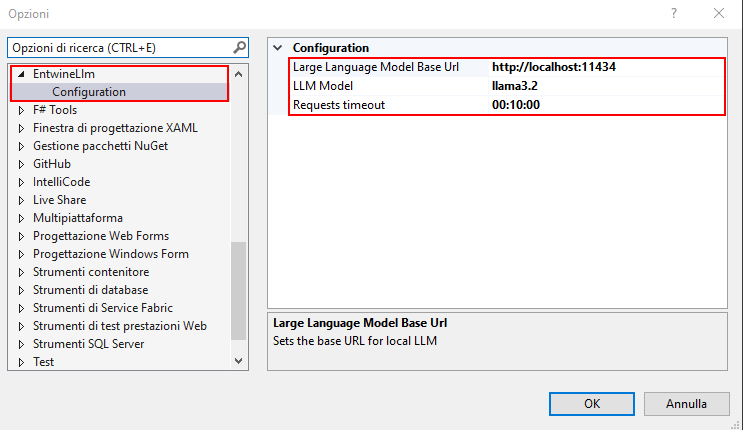
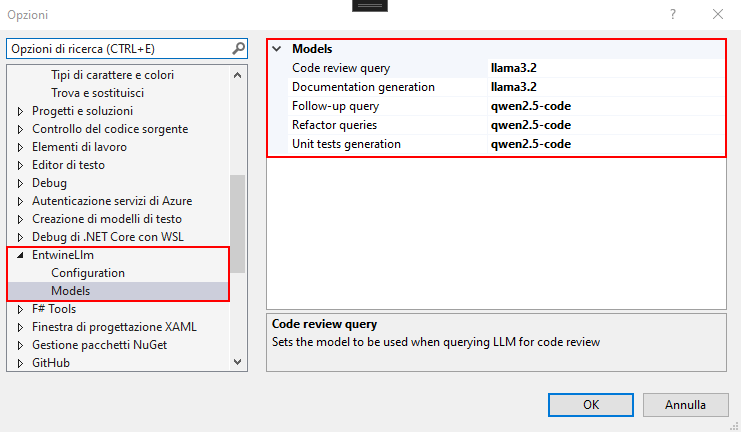
Implemented specific LLMs (#5)
* Added specific model configuration for each operation; bugfix for manual requests
* Minor refactoring
* Minor refactor; updated documentation and version

Changed region(s): [[0.0, 0.0, 1.0, 1.0], [0.4656, 0.0, 0.5277, 0.0302]]

diff --git a/src/EntwineLLM/Helpers/RefactoringHelper.cs b/src/EntwineLLM/Helpers/RefactoringHelper.cs
@@ -14,13 +14,15 @@ namespace EntwineLlm
 {
     internal class RefactoringHelper
     {
-        private readonly EntwineLlmOptions _options;
+        private readonly GeneralOptions _generalOptions;
+        private readonly ModelsOptions _modelsOptions;
         private readonly AsyncPackage _package;
 
         public RefactoringHelper(AsyncPackage package)
         {
             _package = package;
-            _options = package.GetDialogPage(typeof(EntwineLlmOptions)) as EntwineLlmOptions;
+            _generalOptions = package.GetDialogPage(typeof(GeneralOptions)) as GeneralOptions;
+            _modelsOptions = package.GetDialogPage(typeof(ModelsOptions)) as ModelsOptions;
         }
 
         public async Task RequestCodeSuggestionsAsync(
@@ -47,22 +49,22 @@ namespace EntwineLlm
         private async Task<CodeSuggestionResponse> GetCodeSuggestionsAsync(string methodCode, CodeType codeType, string manualPrompt)
         {
             using var client = new HttpClient();
-            client.Timeout = _options.LlmRequestTimeOut;
+            client.Timeout = _generalOptions.LlmRequestTimeOut;
 
             var prompt = codeType switch
             {
-                CodeType.Manual => PromptHelper.CreateForManualRequest(_options.LlmModel, methodCode, manualPrompt),
-                CodeType.Refactor => PromptHelper.CreateForRefactor(_options.LlmModel, methodCode),
-                CodeType.Test => PromptHelper.CreateForTests(_options.LlmModel, methodCode),
-                CodeType.Documentation => PromptHelper.CreateForDocumentation(_options.LlmModel, methodCode),
-                CodeType.Review => PromptHelper.CreateForReview(_options.LlmModel, methodCode),
+                CodeType.Manual => PromptHelper.CreateForManualRequest(_modelsOptions.LlmFollowUp, methodCode, manualPrompt),
+                CodeType.Refactor => PromptHelper.CreateForRefactor(_modelsOptions.LlmRefactor, methodCode),
+                CodeType.Test => PromptHelper.CreateForTests(_modelsOptions.LlmUnitTests, methodCode),
+                CodeType.Documentation => PromptHelper.CreateForDocumentation(_modelsOptions.LlmDocumentation, methodCode),
+                CodeType.Review => PromptHelper.CreateForReview(_modelsOptions.LlmReview, methodCode),
                 _ => throw new ArgumentException("Invalid requested code type"),
             };
             var content = new StringContent(prompt, Encoding.UTF8, "application/json");
 
             try
             {
-                var response = await client.PostAsync($"{_options.LlmUrl}/api/chat", content);
+                var response = await client.PostAsync($"{_generalOptions.LlmUrl}/api/chat", content);
                 response.EnsureSuccessStatusCode();
 
                 var responseContent = await response.Content.ReadAsStringAsync();
@@ -84,7 +86,7 @@ namespace EntwineLlm
 
                 return CodeSuggestionResponse.Success(codeType, extractedCode.ToString());
             }
-            catch (Exception ex)
+            catch
             {
                 return CodeSuggestionResponse.Failure();
             }

diff --git a/src/EntwineLLM/EntwineLLMOptions.cs b/src/EntwineLLM/EntwineLLMOptions.cs
@@ -4,7 +4,7 @@ using System.ComponentModel;
 
 namespace EntwineLlm.Models
 {
-    public class EntwineLlmOptions : DialogPage
+    public class GeneralOptions : DialogPage
     {
         [Category("Configuration")]
         [DisplayName("Large Language Model Base Url")]
@@ -16,10 +16,33 @@ namespace EntwineLlm.Models
         [Description("Sets timeout for HTTP requests")]
 
         public TimeSpan LlmRequestTimeOut { get; set; } = new TimeSpan(0, 10, 0);
+    }
 
-        [Category("Configuration")]
-        [DisplayName("LLM Model")]
-        [Description("Sets the model to be used when querying LLM")]
-        public string LlmModel { get; set; } = "llama3.2";
+    public class ModelsOptions : DialogPage
+    {
+        [Category("Models")]
+        [DisplayName("Refactor queries")]
+        [Description("Sets the model to be used when querying LLM for refactor")]
+        public string LlmRefactor { get; set; } = "llama3.2";
+
+        [Category("Models")]
+        [DisplayName("Unit tests generation")]
+        [Description("Sets the model to be used when querying LLM for unit tests generation")]
+        public string LlmUnitTests { get; set; } = "llama3.2";
+
+        [Category("Models")]
+        [DisplayName("Documentation generation")]
+        [Description("Sets the model to be used when querying LLM for code documentation generation")]
+        public string LlmDocumentation { get; set; } = "llama3.2";
+
+        [Category("Models")]
+        [DisplayName("Code review query")]
+        [Description("Sets the model to be used when querying LLM for code review")]
+        public string LlmReview { get; set; } = "llama3.2";
+
+        [Category("Models")]
+        [DisplayName("Follow-up query")]
+        [Description("Sets the model to be used when querying LLM for follow-up prompts")]
+        public string LlmFollowUp { get; set; } = "llama3.2";
     }
 }

diff --git a/src/EntwineLLM/Helpers/ProjectHelper.cs b/src/EntwineLLM/Helpers/ProjectHelper.cs
@@ -14,16 +14,8 @@ namespace EntwineLlm.Helpers
             var dte = Package.GetGlobalService(typeof(DTE)) as DTE2
                 ?? throw new InvalidOperationException("DTE not available");
 
-            var activeProject = GetActiveProject(dte);
-
-            if (activeProject != null)
-            {
-                activeProject.ProjectItems.AddFromFileCopy(filePath);
-            }
-            else
-            {
-                throw new InvalidOperationException("No active project found.");
-            }
+            var activeProject = GetActiveProject(dte) ?? throw new InvalidOperationException("No active project found.");
+            activeProject.ProjectItems.AddFromFileCopy(filePath);
         }
 
         public static Project GetActiveProject(DTE2 dte)
@@ -31,12 +23,7 @@ namespace EntwineLlm.Helpers
             ThreadHelper.ThrowIfNotOnUIThread();
 
             Array activeSolutionProjects = (Array)dte.ActiveSolutionProjects;
-            if (activeSolutionProjects.Length > 0)
-            {
-                return activeSolutionProjects.GetValue(0) as Project;
-            }
-
-            return null;
+            return activeSolutionProjects.Length == 0 ? null : activeSolutionProjects.GetValue(0) as Project;
         }
     }
 }

diff --git a/src/EntwineLLM/Helpers/PromptHelper.cs b/src/EntwineLLM/Helpers/PromptHelper.cs
@@ -7,7 +7,7 @@ namespace EntwineLlm.Helpers
     internal static class PromptHelper
     {
         public static string CreateForManualRequest(string model, string userCode, string prompt)
-            => CreatePrompt(Properties.Resources.PromptForManual, model, userCode);
+            => CreatePrompt(Properties.Resources.PromptForManual, model, userCode, prompt);
 
         public static string CreateForRefactor(string model, string userCode)
             => CreatePrompt(Properties.Resources.PromptForRefactor, model, userCode);
@@ -21,10 +21,10 @@ namespace EntwineLlm.Helpers
         public static string CreateForReview(string model, string userCode)
             => CreatePrompt(Properties.Resources.PromptForReview, model, userCode);
 
-        private static string CreatePrompt(string promptModel, string model, string userCode)
+        private static string CreatePrompt(string promptModel, string model, string userCode, string manualRequest = "")
         {
             var promptText = PreparePrompt(promptModel);
-            return ReplacePlaceholders(promptText, model, userCode);
+            return ReplacePlaceholders(promptText, model, userCode, manualRequest);
         }
 
         private static string PreparePrompt(string prompt)

diff --git a/src/EntwineLLM/EntwineLLMPackage.cs b/src/EntwineLLM/EntwineLLMPackage.cs
@@ -14,7 +14,8 @@ namespace EntwineLlm
     [ProvideMenuResource("Menus.ctmenu", 1)]
     [ProvideToolWindow(typeof(RefactorSuggestionWindow))]
     [ProvideToolWindow(typeof(MarkdownViewerWindow))]
-    [ProvideOptionPage(typeof(EntwineLlmOptions), "EntwineLlm", "Configuration", 0, 0, true)]
+    [ProvideOptionPage(typeof(GeneralOptions), "EntwineLlm", "Configuration", 0, 0, true)]
+    [ProvideOptionPage(typeof(ModelsOptions), "EntwineLlm", "Models", 0, 0, true)]
     public sealed class EntwineLlmPackage : AsyncPackage
     {
         public const string PackageGuidString = "3c995b0e-1f37-4cef-9ac7-9771b3fb6162";

diff --git a/src/EntwineLLM/Windows/RefactorSuggestionWindowControl.xaml.cs b/src/EntwineLLM/Windows/RefactorSuggestionWindowControl.xaml.cs
@@ -49,7 +49,6 @@ namespace EntwineLlm
         private void btnApply_Click(object sender, RoutedEventArgs e)
         {
             ReplaceSelectedTextInIDE(SuggestionBox.Text);
-
             btnClose_Click(sender, e);
         }
 

diff --git a/src/EntwineLLM/Commands/Interfaces/IBaseCommand.cs b/src/EntwineLLM/Commands/Interfaces/IBaseCommand.cs
@@ -4,7 +4,7 @@ namespace EntwineLlm.Commands.Interfaces
 {
     internal interface IBaseCommand
     {
-        int Id {  get; }
+        int Id { get; }
         void Execute(object sender, EventArgs e);
     }
 }

diff --git a/src/EntwineLLM/Helpers/ProgressBarHelper.cs b/src/EntwineLLM/Helpers/ProgressBarHelper.cs
@@ -1,6 +1,6 @@
-using System;
+using Microsoft.VisualStudio.Shell;
 using Microsoft.VisualStudio.Shell.Interop;
-using Microsoft.VisualStudio.Shell;
+using System;
 
 namespace EntwineLlm.Helpers
 {

diff --git a/src/EntwineLLM/Properties/AssemblyInfo.cs b/src/EntwineLLM/Properties/AssemblyInfo.cs
@@ -1,5 +1,4 @@
 using System.Reflection;
-using System.Runtime.CompilerServices;
 using System.Runtime.InteropServices;
 
 // General Information about an assembly is controlled through the following 

diff --git a/CHANGELOG.md b/CHANGELOG.md
@@ -1,3 +1,7 @@
+### v1.8.0 Added specific models for each operation
+---
+- User can now configure a specific LLM to serve each operation
+
 ### v1.7.0 Document and Code review commands
 ---
 Added new commands to:
